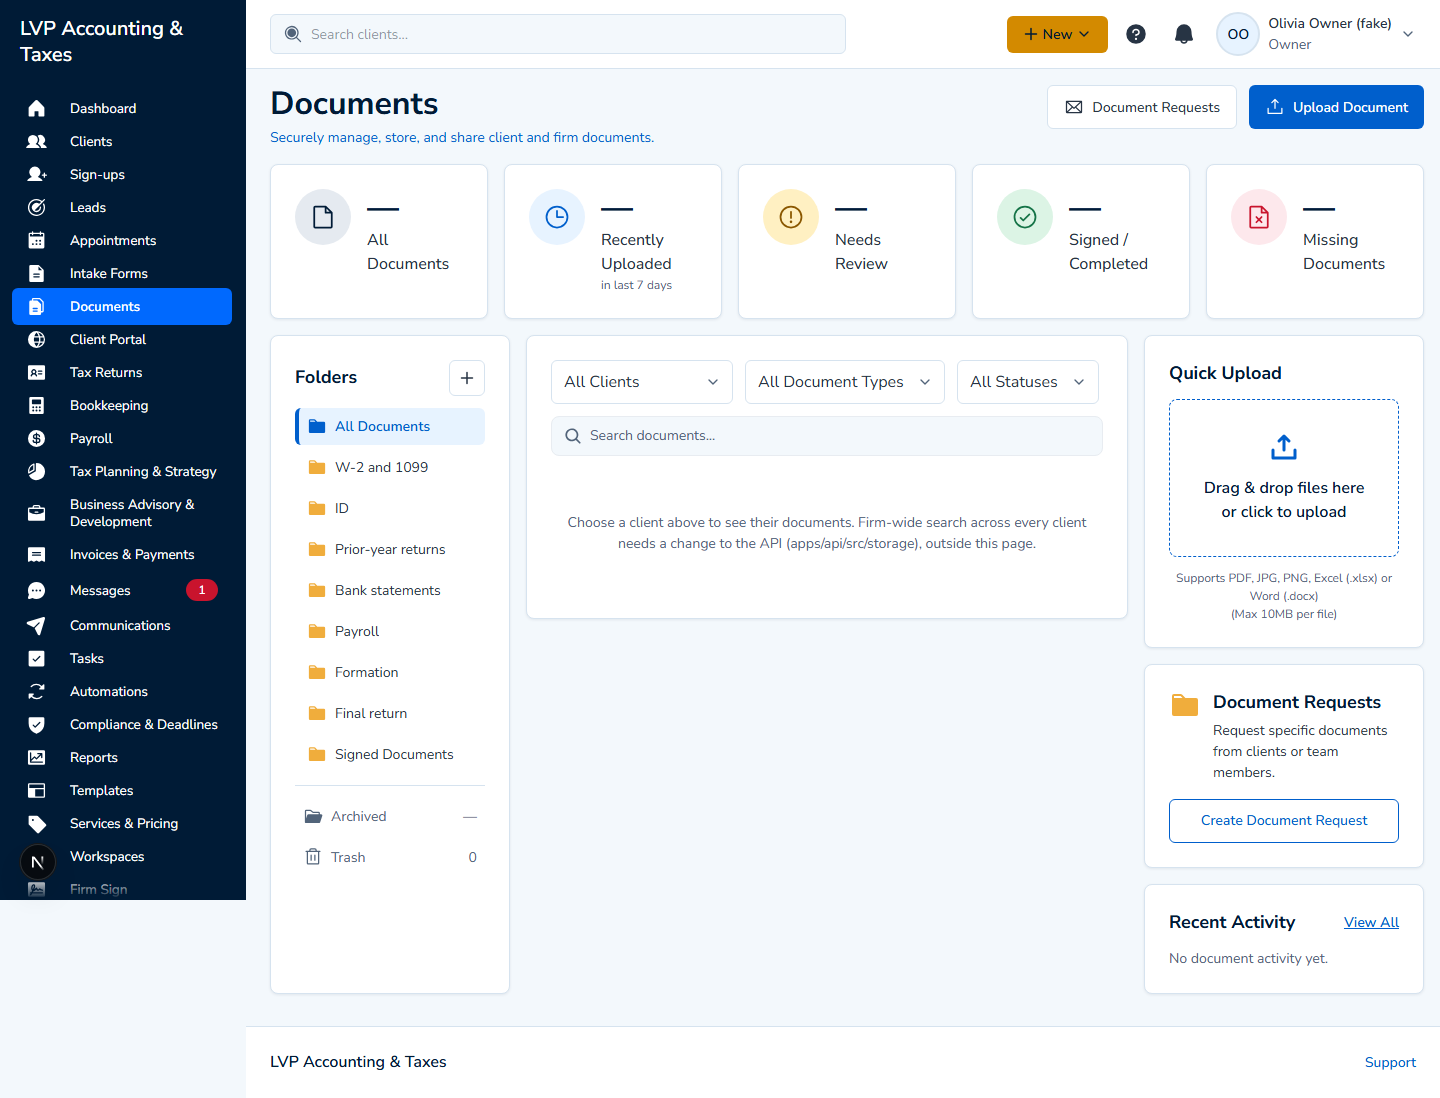
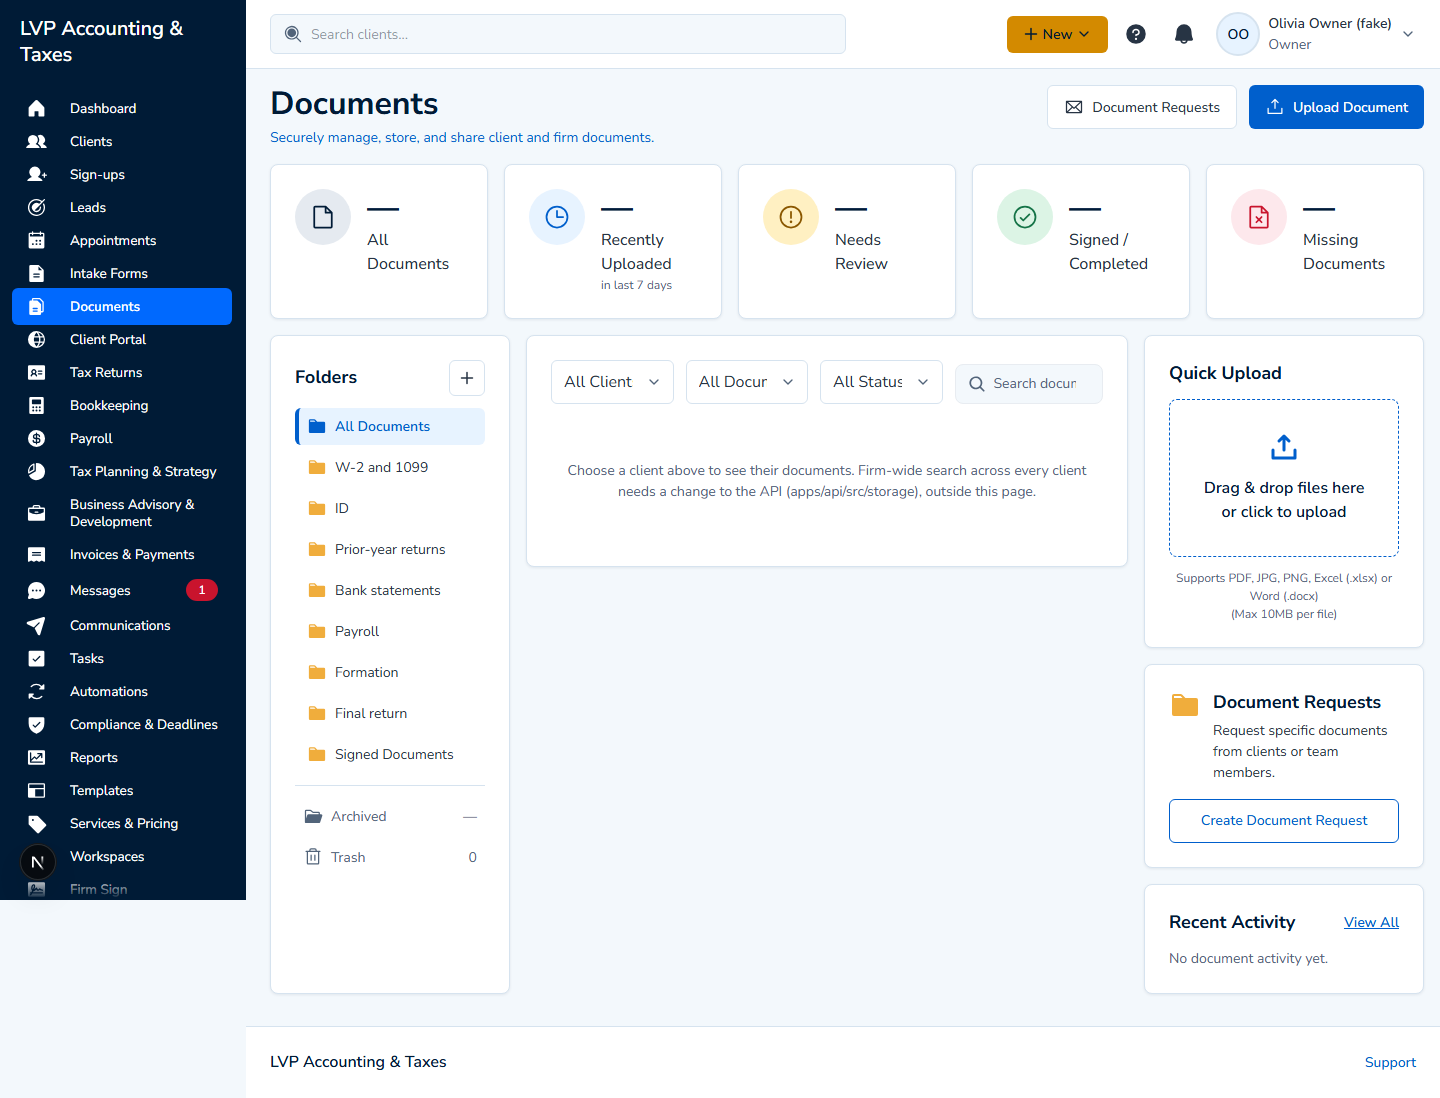
fix: give SearchField a lower-able min-width floor (R34)
packages/ui/src/filter-bar.tsx: SearchField's 14rem floor was fixed,
so a filter row with three selects next to it had nowhere to put the
search box at normal widths and wrapped to its own line, unlike the
design. Adds a minWidth prop (a CSS length) backed by a CSS custom
property with the old 14rem as its fallback, so every existing
caller is unaffected and this is the only one passing a lower value.
A Tailwind class wouldn't have worked here for the same reason the
three Select widths on the documents filters needed to move from a
className into a sized wrapper div instead: Select's own classes
include w-full, which wins the cascade over a width class appended
through className (Tailwind orders its generated utilities
internally, not by the class attribute's order) — same root issue,
two different symptoms.

Verified at 1440 and 1280: the filters row is one line at both, no
wrapping. Documents gets a narrower minWidth (3.5rem) and each select
now sits in a flex-1 wrapper with its own min-w floor instead of a
className on the Select itself. One line in docs/ui-kit.md.

Changed region(s): [[0.4062, 0.3406, 0.75, 0.5264], [0.6562, 0.3406, 0.75, 0.3716]]

diff --git a/apps/web/src/app/firm/(workspace)/documents/_components/documents-filters-bar.tsx b/apps/web/src/app/firm/(workspace)/documents/_components/documents-filters-bar.tsx
@@ -35,47 +35,58 @@ export function DocumentsFiltersBar({
   return (
     <div data-testid="documents-filters">
       <FilterBar>
-        <Select
-          label="Client"
-          hideLabel
-          data-testid="filter-client"
-          className="w-44"
-          value={clientId}
-          onChange={(event) => onClientChange(event.target.value)}
-          options={[
-            { value: '', label: 'All Clients' },
-            ...clients.map((c) => ({ value: c.id, label: c.displayName })),
-          ]}
-        />
-        <Select
-          label="Document type"
-          hideLabel
-          data-testid="filter-type"
-          className="w-56"
-          value={categoryId}
-          onChange={(event) => onCategoryChange(event.target.value)}
-          options={[
-            { value: '', label: 'All Document Types' },
-            ...categories.map((c) => ({ value: c.id, label: c.name })),
-          ]}
-        />
-        <Select
-          label="Status"
-          hideLabel
-          data-testid="filter-status"
-          className="w-40"
-          value={status}
-          onChange={(event) =>
-            onStatusChange(event.target.value as '' | FirmDocument['scanStatus'])
-          }
-          options={STATUS_OPTIONS}
-        />
+        {/*
+          Select's own classes include w-full, which wins the cascade over a width class passed
+          through its className (Tailwind orders utilities internally, not by class-attribute
+          order — the same kind of conflict as SearchField's old min-w floor). Select's own doc
+          comment says to size a parent instead, so each one sits in a flex-1 wrapper with a
+          min-w floor: narrow at 1280px, growing to share the row's extra space at 1440px.
+        */}
+        <div className="min-w-24 flex-1">
+          <Select
+            label="Client"
+            hideLabel
+            data-testid="filter-client"
+            value={clientId}
+            onChange={(event) => onClientChange(event.target.value)}
+            options={[
+              { value: '', label: 'All Clients' },
+              ...clients.map((c) => ({ value: c.id, label: c.displayName })),
+            ]}
+          />
+        </div>
+        <div className="min-w-28 flex-1">
+          <Select
+            label="Document type"
+            hideLabel
+            data-testid="filter-type"
+            value={categoryId}
+            onChange={(event) => onCategoryChange(event.target.value)}
+            options={[
+              { value: '', label: 'All Document Types' },
+              ...categories.map((c) => ({ value: c.id, label: c.name })),
+            ]}
+          />
+        </div>
+        <div className="min-w-20 flex-1">
+          <Select
+            label="Status"
+            hideLabel
+            data-testid="filter-status"
+            value={status}
+            onChange={(event) =>
+              onStatusChange(event.target.value as '' | FirmDocument['scanStatus'])
+            }
+            options={STATUS_OPTIONS}
+          />
+        </div>
         <SearchField
           label="Search documents"
           placeholder="Search documents..."
           maxLength={100}
           value={search}
           data-testid="filter-search"
+          minWidth="3.5rem"
           onChange={(event) => onSearchChange(event.target.value)}
         />
       </FilterBar>

diff --git a/packages/ui/src/filter-bar.tsx b/packages/ui/src/filter-bar.tsx
@@ -6,20 +6,36 @@ import {
   useId,
   useRef,
   useState,
+  type CSSProperties,
   type InputHTMLAttributes,
   type ReactNode,
 } from 'react';
 import { Button } from './button';
 
+export interface SearchFieldProps extends InputHTMLAttributes<HTMLInputElement> {
+  label: string;
+  /**
+   * Overrides the 14rem default floor (a CSS length), for a filter row with several other
+   * fields and little room. A CSS variable, not a competing Tailwind min-w class: two min-w
+   * classes on one element don't reliably override each other.
+   */
+  minWidth?: string;
+}
 /** The filled search box at the start of a filter bar. */
 export function SearchField({
   label,
   className = '',
+  minWidth,
+  style,
   ...props
-}: InputHTMLAttributes<HTMLInputElement> & { label: string }) {
+}: SearchFieldProps) {
+  const fieldStyle = minWidth
+    ? ({ ...style, '--search-field-min-w': minWidth } as CSSProperties)
+    : style;
   return (
     <label
-      className={`flex h-10 min-w-56 flex-1 items-center gap-2 rounded-lg border border-divider bg-canvas px-3 text-muted focus-within:outline-2 focus-within:outline-focus ${className}`}
+      style={fieldStyle}
+      className={`flex h-10 min-w-[var(--search-field-min-w,14rem)] flex-1 items-center gap-2 rounded-lg border border-divider bg-canvas px-3 text-muted focus-within:outline-2 focus-within:outline-focus ${className}`}
     >
       <MagnifyingGlass aria-hidden weight="bold" className="size-4.5 shrink-0" />
       <span className="sr-only">{label}</span>

diff --git a/docs/ui-kit.md b/docs/ui-kit.md
@@ -42,3 +42,5 @@ Components in `packages/ui` that Octavia's firm workspace designs (`docs/mockups
 | `FormField`       | `label`, `htmlFor`, `required`, `hint`, `error`, `counter`, `children` (any control); `Input`, `Select`, `Textarea` already carry their own label and error | custom controls: dates, tags, pickers                                             |
 
 `Select` and `Input` take `hideLabel` to hide the visible label (it stays as the accessible name), as in filter bars where the design shows only the field.
+
+`SearchField` takes `minWidth` to lower its 14rem default floor (a CSS length, e.g. `'8rem'`), for a filter row with several other fields and little room to spare.
